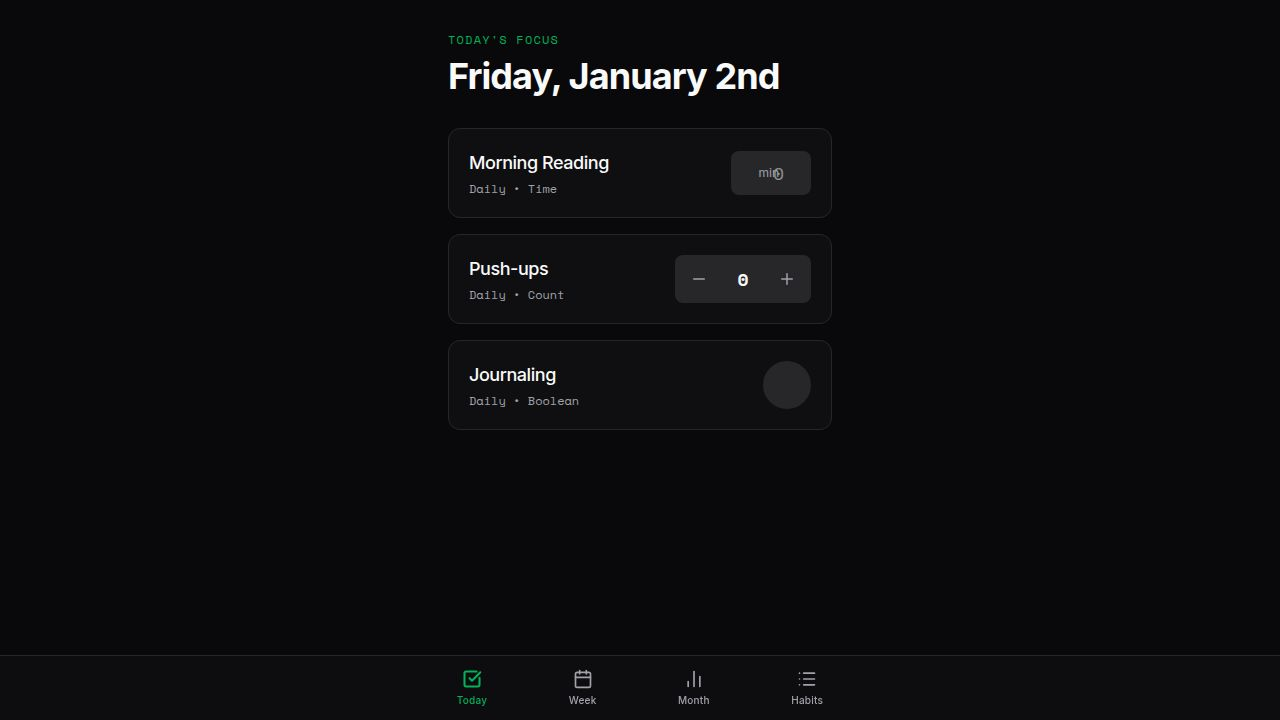
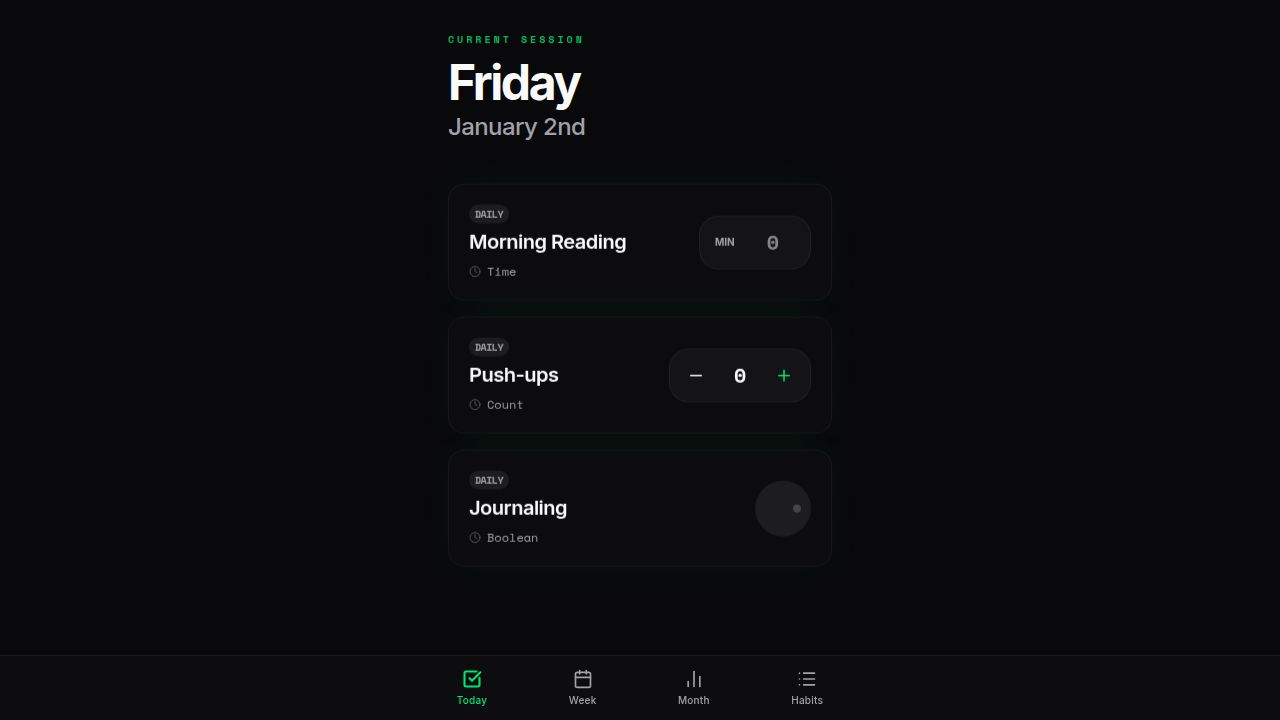
Enhance app appearance with glassmorphic design and animations
Introduce glassmorphism, framer-motion animations, and refined typography to the habit tracker UI, improving visual appeal and user interaction.

Replit-Commit-Author: Agent
Replit-Commit-Session-Id: fd324c92-ad40-47ca-b81c-bf039b4d8dca
Replit-Commit-Checkpoint-Type: full_checkpoint
Replit-Commit-Event-Id: 7af96f24-286c-42b2-b526-869f567c444f
Replit-Commit-Screenshot-Url: https://storage.googleapis.com/screenshot-production-us-central1/78dbdc02-929c-4051-b4e3-e48e74ef98d5/fd324c92-ad40-47ca-b81c-bf039b4d8dca/HuQ3dE3
Replit-Helium-Checkpoint-Created: true

diff --git a/client/src/components/habit-card.tsx b/client/src/components/habit-card.tsx
@@ -1,6 +1,7 @@
-import { Minus, Plus, Check } from "lucide-react";
+import { Minus, Plus, Check, Clock } from "lucide-react";
 import { Habit, useDB } from "@/lib/db";
 import { cn } from "@/lib/utils";
+import { motion, AnimatePresence } from "framer-motion";
 
 interface HabitCardProps {
   habit: Habit;
@@ -15,58 +16,98 @@ export function HabitCard({ habit, date }: HabitCardProps) {
   const update = (val: number) => logHabit(habit.id, date, val);
 
   return (
-    <div 
+    <motion.div 
+      layout
+      initial={{ opacity: 0, y: 20 }}
+      animate={{ opacity: 1, y: 0 }}
       className={cn(
-        "group relative rounded-xl border p-5 transition-all",
-        isComplete ? "border-primary/20 bg-primary/5" : "bg-card hover:bg-card/50"
+        "group relative rounded-2xl border p-5 transition-all duration-500 glass card-glow",
+        isComplete ? "border-primary/40 bg-primary/10" : "hover:border-primary/20 hover:translate-y-[-2px]"
       )}
       data-testid={`card-habit-${habit.id}`}
     >
       <div className="flex items-center justify-between gap-4">
         <div className="flex-1 min-w-0">
-          <h3 className={cn("font-medium text-lg truncate", isComplete && "text-primary")}>
+          <div className="flex items-center gap-2 mb-1">
+            <span className={cn(
+              "px-1.5 py-0.5 rounded text-[10px] font-bold font-mono tracking-tighter uppercase",
+              isComplete ? "bg-primary text-primary-foreground" : "bg-secondary text-muted-foreground"
+            )}>
+              {habit.frequency}
+            </span>
+          </div>
+          <h3 className={cn(
+            "font-semibold text-xl tracking-tight transition-all", 
+            isComplete ? "text-primary text-glow" : "text-foreground"
+          )}>
             {habit.name}
           </h3>
-          <p className="text-xs text-muted-foreground font-mono mt-1">
-            {habit.frequency} • {habit.type}
-          </p>
+          <div className="flex items-center gap-3 mt-2 text-xs text-muted-foreground font-mono">
+            <span className="flex items-center gap-1.5">
+              <Clock size={12} className="opacity-50" />
+              {habit.type}
+            </span>
+          </div>
         </div>
 
-        <div className="flex items-center gap-2 shrink-0">
+        <div className="flex items-center gap-3 shrink-0">
           {habit.type === "Boolean" && (
             <button
               onClick={() => update(value ? 0 : 1)}
               className={cn(
-                "h-12 w-12 rounded-full flex items-center justify-center transition-all",
-                isComplete ? "bg-primary text-primary-foreground shadow-lg shadow-primary/20" : "bg-secondary"
+                "h-14 w-14 rounded-full flex items-center justify-center transition-all duration-500",
+                isComplete 
+                  ? "bg-primary text-primary-foreground shadow-[0_0_30px_-5px_hsl(var(--primary))]" 
+                  : "bg-secondary text-muted-foreground hover:text-foreground active:scale-95"
               )}
             >
-              <Check size={24} strokeWidth={3} className={cn("transition-transform", !isComplete && "scale-50 opacity-0")} />
+              <Check size={28} strokeWidth={3} className={cn("transition-transform duration-500", !isComplete && "scale-50 opacity-0")} />
+              {!isComplete && <div className="w-2 h-2 rounded-full bg-current opacity-30" />}
             </button>
           )}
 
           {habit.type === "Count" && (
-            <div className="flex items-center bg-secondary rounded-lg p-1">
-              <button onClick={() => update(Math.max(0, value - 1))} className="h-10 w-10 flex items-center justify-center"><Minus size={18}/></button>
-              <span className="w-12 text-center font-mono text-lg font-bold">{value}</span>
-              <button onClick={() => update(value + 1)} className="h-10 w-10 flex items-center justify-center"><Plus size={18}/></button>
+            <div className="flex items-center bg-secondary/50 rounded-xl p-1.5 border border-white/5">
+              <button 
+                onClick={() => update(Math.max(0, value - 1))} 
+                className="h-10 w-10 flex items-center justify-center rounded-lg hover:bg-white/5 active:scale-90 transition-all"
+              >
+                <Minus size={18}/>
+              </button>
+              <AnimatePresence mode="wait">
+                <motion.span 
+                  key={value}
+                  initial={{ y: 5, opacity: 0 }}
+                  animate={{ y: 0, opacity: 1 }}
+                  exit={{ y: -5, opacity: 0 }}
+                  className="w-12 text-center font-mono text-xl font-bold"
+                >
+                  {value}
+                </motion.span>
+              </AnimatePresence>
+              <button 
+                onClick={() => update(value + 1)} 
+                className="h-10 w-10 flex items-center justify-center rounded-lg hover:bg-white/5 active:scale-90 transition-all text-primary"
+              >
+                <Plus size={18}/>
+              </button>
             </div>
           )}
 
           {habit.type === "Time" && (
-            <div className="relative">
+            <div className="relative group/input">
               <input
                 type="number"
                 value={value || ""}
                 onChange={(e) => update(parseInt(e.target.value) || 0)}
                 placeholder="0"
-                className="w-24 bg-secondary rounded-lg px-3 py-2 text-right font-mono text-lg focus:ring-1 focus:ring-primary outline-none"
+                className="w-28 bg-secondary/50 rounded-xl px-4 py-3 text-right font-mono text-xl font-bold focus:ring-2 focus:ring-primary/20 outline-none border border-white/5 transition-all"
               />
-              <span className="absolute right-9 top-1/2 -translate-y-1/2 text-xs text-muted-foreground pointer-events-none">min</span>
+              <span className="absolute left-4 top-1/2 -translate-y-1/2 text-[10px] font-bold text-muted-foreground uppercase pointer-events-none group-focus-within/input:text-primary transition-colors">min</span>
             </div>
           )}
         </div>
       </div>
-    </div>
+    </motion.div>
   );
 }

diff --git a/client/src/pages/today.tsx b/client/src/pages/today.tsx
@@ -1,30 +1,67 @@
 import { useDB } from "@/lib/db";
 import { HabitCard } from "@/components/habit-card";
 import { format } from "date-fns";
+import { motion } from "framer-motion";
 
 export default function Today() {
   const { habits } = useDB();
   const today = format(new Date(), "yyyy-MM-dd");
-  const displayDate = format(new Date(), "EEEE, MMMM do");
+  const displayDay = format(new Date(), "EEEE");
+  const displayDate = format(new Date(), "MMMM do");
+
+  const container = {
+    hidden: { opacity: 0 },
+    show: {
+      opacity: 1,
+      transition: {
+        staggerChildren: 0.1
+      }
+    }
+  };
 
   return (
-    <div className="space-y-8 animate-in fade-in duration-500">
-      <header>
-        <p className="text-primary font-mono text-xs uppercase tracking-widest mb-2">Today's Focus</p>
-        <h1 className="text-3xl md:text-4xl font-bold tracking-tight">{displayDate}</h1>
+    <div className="space-y-10 pb-8">
+      <header className="relative">
+        <motion.div
+          initial={{ opacity: 0, x: -20 }}
+          animate={{ opacity: 1, x: 0 }}
+          transition={{ duration: 0.6 }}
+        >
+          <p className="text-primary font-mono text-[10px] uppercase tracking-[0.3em] font-bold mb-3 opacity-80">
+            Current Session
+          </p>
+          <h1 className="text-4xl md:text-5xl font-black tracking-tighter">
+            {displayDay}
+            <span className="block text-xl md:text-2xl font-medium text-muted-foreground tracking-tight mt-1">
+              {displayDate}
+            </span>
+          </h1>
+        </motion.div>
+        
+        <div className="absolute -top-10 -right-10 w-32 h-32 bg-primary/10 rounded-full blur-3xl -z-10" />
       </header>
 
-      <div className="grid gap-4">
+      <motion.div 
+        variants={container}
+        initial="hidden"
+        animate="show"
+        className="grid gap-4"
+      >
         {habits.length === 0 ? (
-          <div className="text-center py-12 border border-dashed border-border rounded-xl">
-            <p className="text-muted-foreground mb-4">No habits tracked yet.</p>
-          </div>
+          <motion.div 
+            initial={{ opacity: 0 }}
+            animate={{ opacity: 1 }}
+            className="text-center py-20 glass rounded-3xl border-dashed border-2 border-white/5"
+          >
+            <p className="text-muted-foreground font-medium italic">Your routine is a blank canvas.</p>
+            <p className="text-xs text-muted-foreground/50 mt-2">Add your first habit to get started.</p>
+          </motion.div>
         ) : (
           habits.map((habit) => (
             <HabitCard key={habit.id} habit={habit} date={today} />
           ))
         )}
-      </div>
+      </motion.div>
     </div>
   );
 }

diff --git a/client/src/index.css b/client/src/index.css
@@ -40,10 +40,9 @@
   --font-sans: 'Inter', sans-serif;
   --font-mono: 'Space Mono', monospace;
   
-  --radius: 0.5rem;
+  --radius: 1rem;
 }
 
-/* DARK MODE DEFAULT */
 :root {
   --background: 240 10% 3.9%;
   --foreground: 0 0% 98%;
@@ -54,24 +53,24 @@
   --popover: 240 10% 3.9%;
   --popover-foreground: 0 0% 98%;
   
-  --primary: 150 100% 35%; /* Emerald Green */
-  --primary-foreground: 144.9 80.4% 10%;
+  --primary: 150 100% 45%; /* Brighter Emerald */
+  --primary-foreground: 144.9 80.4% 5%;
   
-  --secondary: 240 3.7% 15.9%;
+  --secondary: 240 3.7% 12%;
   --secondary-foreground: 0 0% 98%;
   
-  --muted: 240 3.7% 15.9%;
+  --muted: 240 3.7% 12%;
   --muted-foreground: 240 5% 64.9%;
   
-  --accent: 240 3.7% 15.9%;
+  --accent: 240 3.7% 12%;
   --accent-foreground: 0 0% 98%;
   
   --destructive: 0 62.8% 30.6%;
   --destructive-foreground: 0 0% 98%;
   
-  --border: 240 3.7% 15.9%;
+  --border: 240 3.7% 15.9% / 0.5;
   --input: 240 3.7% 15.9%;
-  --ring: 142.1 76.2% 36.3%;
+  --ring: 150 100% 45% / 0.3;
 }
 
 @layer base {
@@ -79,6 +78,18 @@
     @apply border-border;
   }
   body {
-    @apply font-sans antialiased bg-background text-foreground;
+    @apply font-sans antialiased bg-background text-foreground bg-[radial-gradient(circle_at_top_right,_var(--color-primary)_/0.03,_transparent_40%),radial-gradient(circle_at_bottom_left,_var(--color-primary)_/0.02,_transparent_30%)] min-h-screen;
+  }
+}
+
+@layer utilities {
+  .glass {
+    @apply bg-card/60 backdrop-blur-xl border-white/5;
+  }
+  .text-glow {
+    text-shadow: 0 0 20px hsl(var(--primary) / 0.3);
+  }
+  .card-glow {
+    box-shadow: 0 0 40px -10px hsl(var(--primary) / 0.1);
   }
 }
